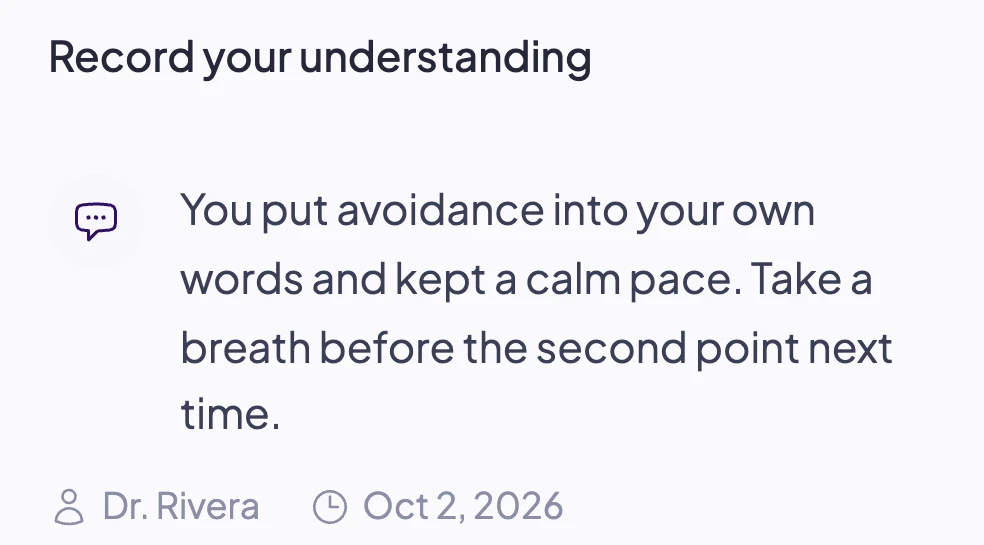
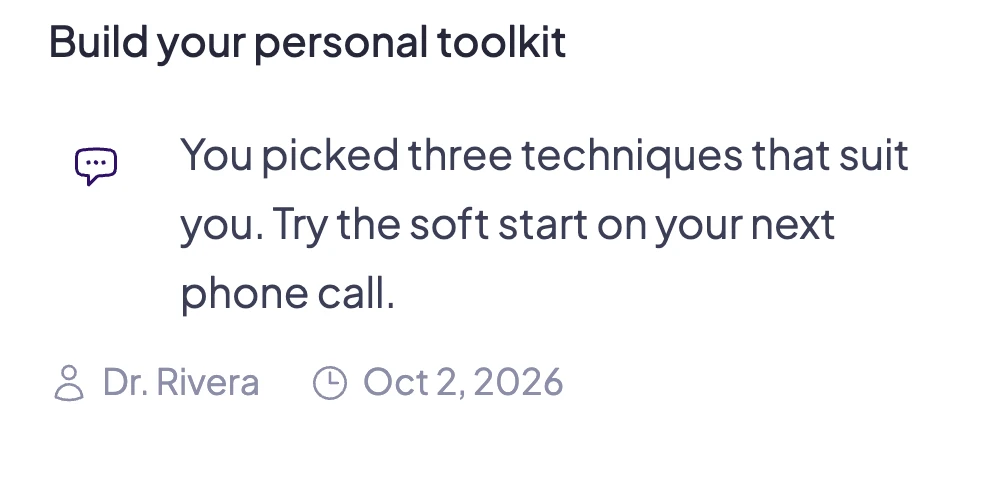
fix(D62): both cards about one step, shorter hero copy, no glow

diff --git a/src/pages/ForPatients.tsx b/src/pages/ForPatients.tsx
@@ -42,7 +42,7 @@ const EXCHANGE = [
     key: "reply",
     src: "/screenshots/detail/exchange-reply.webp",
     width: 984,
-    height: 545,
+    height: 500,
   },
 ] as const;
 const eyebrowClass = "font-body t-eyebrow text-calm-lavender-ink";
@@ -174,14 +174,6 @@ export default function ForPatients() {
                 <StoreBadges className="mt-4" />
               </div>
               <ol className="relative mx-auto w-full max-w-[460px] space-y-6 lg:mx-0 lg:ml-auto">
-                <div
-                  aria-hidden="true"
-                  className="pointer-events-none absolute -right-10 top-1/2 h-[480px] w-[480px] -translate-y-1/2 rounded-full"
-                  style={{
-                    background:
-                      "radial-gradient(closest-side, rgba(224,216,250,0.75), rgba(238,234,253,0.34) 52%, rgba(241,238,253,0) 78%)",
-                  }}
-                />
                 {EXCHANGE.map(({ key, src, width, height }, i) => (
                   <li key={key} className="relative">
                     {i === 0 && (

diff --git a/src/i18n/locales/pt.ts b/src/i18n/locales/pt.ts
@@ -362,7 +362,7 @@ export const pt: Dictionary = {
       eyebrow: "Para pacientes",
       headlineLine1: "A tua prática,",
       headlineLine2: "entre sessões.",
-      body: "A UpSpeech é como continuas a praticar, entre consultas, o trabalho que fazes com o teu terapeuta da fala. O teu terapeuta define o plano e acompanha como está a correr enquanto praticas na app.",
+      body: "O teu terapeuta escolhe os exercícios. Tu fazes-os em casa, no telemóvel, e ele vê como correu cada um.",
       exchange: {
         todayLabel: "Definida para ti",
         todayAlt:

diff --git a/src/i18n/locales/es.ts b/src/i18n/locales/es.ts
@@ -361,7 +361,7 @@ export const es: Dictionary = {
       eyebrow: "Para pacientes",
       headlineLine1: "Tu práctica,",
       headlineLine2: "entre sesiones.",
-      body: "UpSpeech es la forma de seguir practicando entre citas el trabajo que haces con tu logopeda. Tu terapeuta define el plan y ve cómo va todo mientras tú practicas en la app.",
+      body: "Tu logopeda elige los ejercicios. Tú los haces en casa, desde el móvil, y él ve cómo ha ido cada uno.",
       exchange: {
         todayLabel: "Definida para ti",
         todayAlt:

diff --git a/src/i18n/locales/en.ts b/src/i18n/locales/en.ts
@@ -360,7 +360,7 @@ export const en = {
       eyebrow: "For patients",
       headlineLine1: "Your practice,",
       headlineLine2: "between sessions.",
-      body: "UpSpeech is how you keep practising the work you do with your speech therapist between appointments. Your therapist sets the plan and follows how it's going while you practise in the app.",
+      body: "Your therapist picks the exercises. You do them at home on your phone, and they see how each one went.",
       exchange: {
         todayLabel: "Set for you",
         todayAlt:
